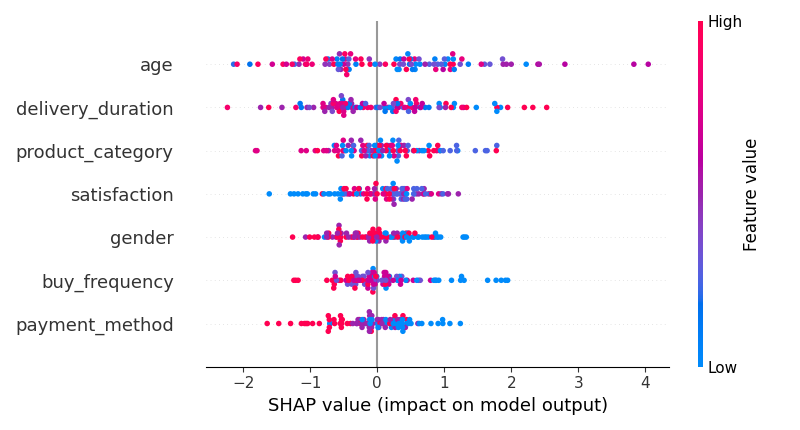
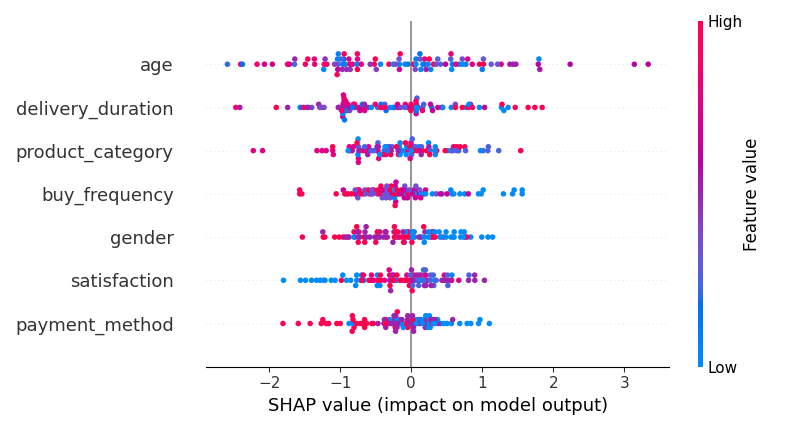
Add files via upload

diff --git a/import matplotlib.py b/import matplotlib.py
@@ -33,12 +33,31 @@ y = df['is_returned']
 # Train-test split
 X_train, X_test, y_train, y_test = train_test_split(X, y, test_size=0.2, random_state=42)
 
+X_test_raw = X_test.copy()
 # Train XGBoost model
 xgb_model = XGBClassifier(eval_metric='logloss', random_state=42)
 xgb_model.fit(X_train, y_train)
 
 # Predict
 y_pred = xgb_model.predict(X_test)
+y_proba = xgb_model.predict_proba(X_test)[:, 1] 
+X_test = X_test.copy()
+X_test['predicted'] = y_pred
+X_test['proba'] = y_proba  # Xác suất trả hàng
+def categorize_risk(prob):
+    if prob > 0.8:
+        return 'High Risk'
+    elif prob > 0.6:
+        return 'Medium Risk'
+    else:
+        return 'Low Risk'
+X_test['risk_group'] = X_test['proba'].apply(categorize_risk)
+print("Number of customers in each risk group:")
+print(X_test['risk_group'].value_counts())
+#top 10 customers with highest risk
+print("\nTop 10 customers with highest risk of returning products:")
+top_risk_customers = X_test.nlargest(10, 'proba')[['predicted', 'proba', 'risk_group']]
+print(top_risk_customers)
 
 #classification report
 print("Classification Report:")
@@ -59,11 +78,11 @@ plt.show()
 
 
 # SHAP values
-explainer = shap.Explainer(xgb_model, X_train)
-shap_values = explainer(X_test)
+explainer = shap.TreeExplainer(xgb_model)
+shap_values = explainer.shap_values(X_test_raw)
 
 # SHAP summary plot
-shap.summary_plot(shap_values, X_test, show=False)
+shap.summary_plot(shap_values, X_test_raw, show=False)
 plt.tight_layout()
 plt.savefig(r'C:\Users\Windows\Downloads\shap_summary_plot.png')
 plt.show()
@@ -103,4 +122,14 @@ plt.xlabel("Metric")
 plt.ylabel("Class / Average")
 plt.tight_layout()
 plt.savefig(r"C:\Users\Windows\Downloads\classification_report_heatmap_full.png")
+plt.show()
+#customer segmentation
+# Customer segmentation based on risk group
+plt.figure(figsize=(6, 4))
+sns.barplot(data=X_test, x='risk_group', y='satisfaction', palette='Set2')
+plt.title("Customer Segmentation by Risk Group")
+plt.xlabel("Risk Group")
+plt.ylabel("Satisfaction")
+plt.tight_layout()
+plt.savefig(r'C:\Users\Windows\Downloads\customer_segmentation_risk_group.png')
 plt.show()
